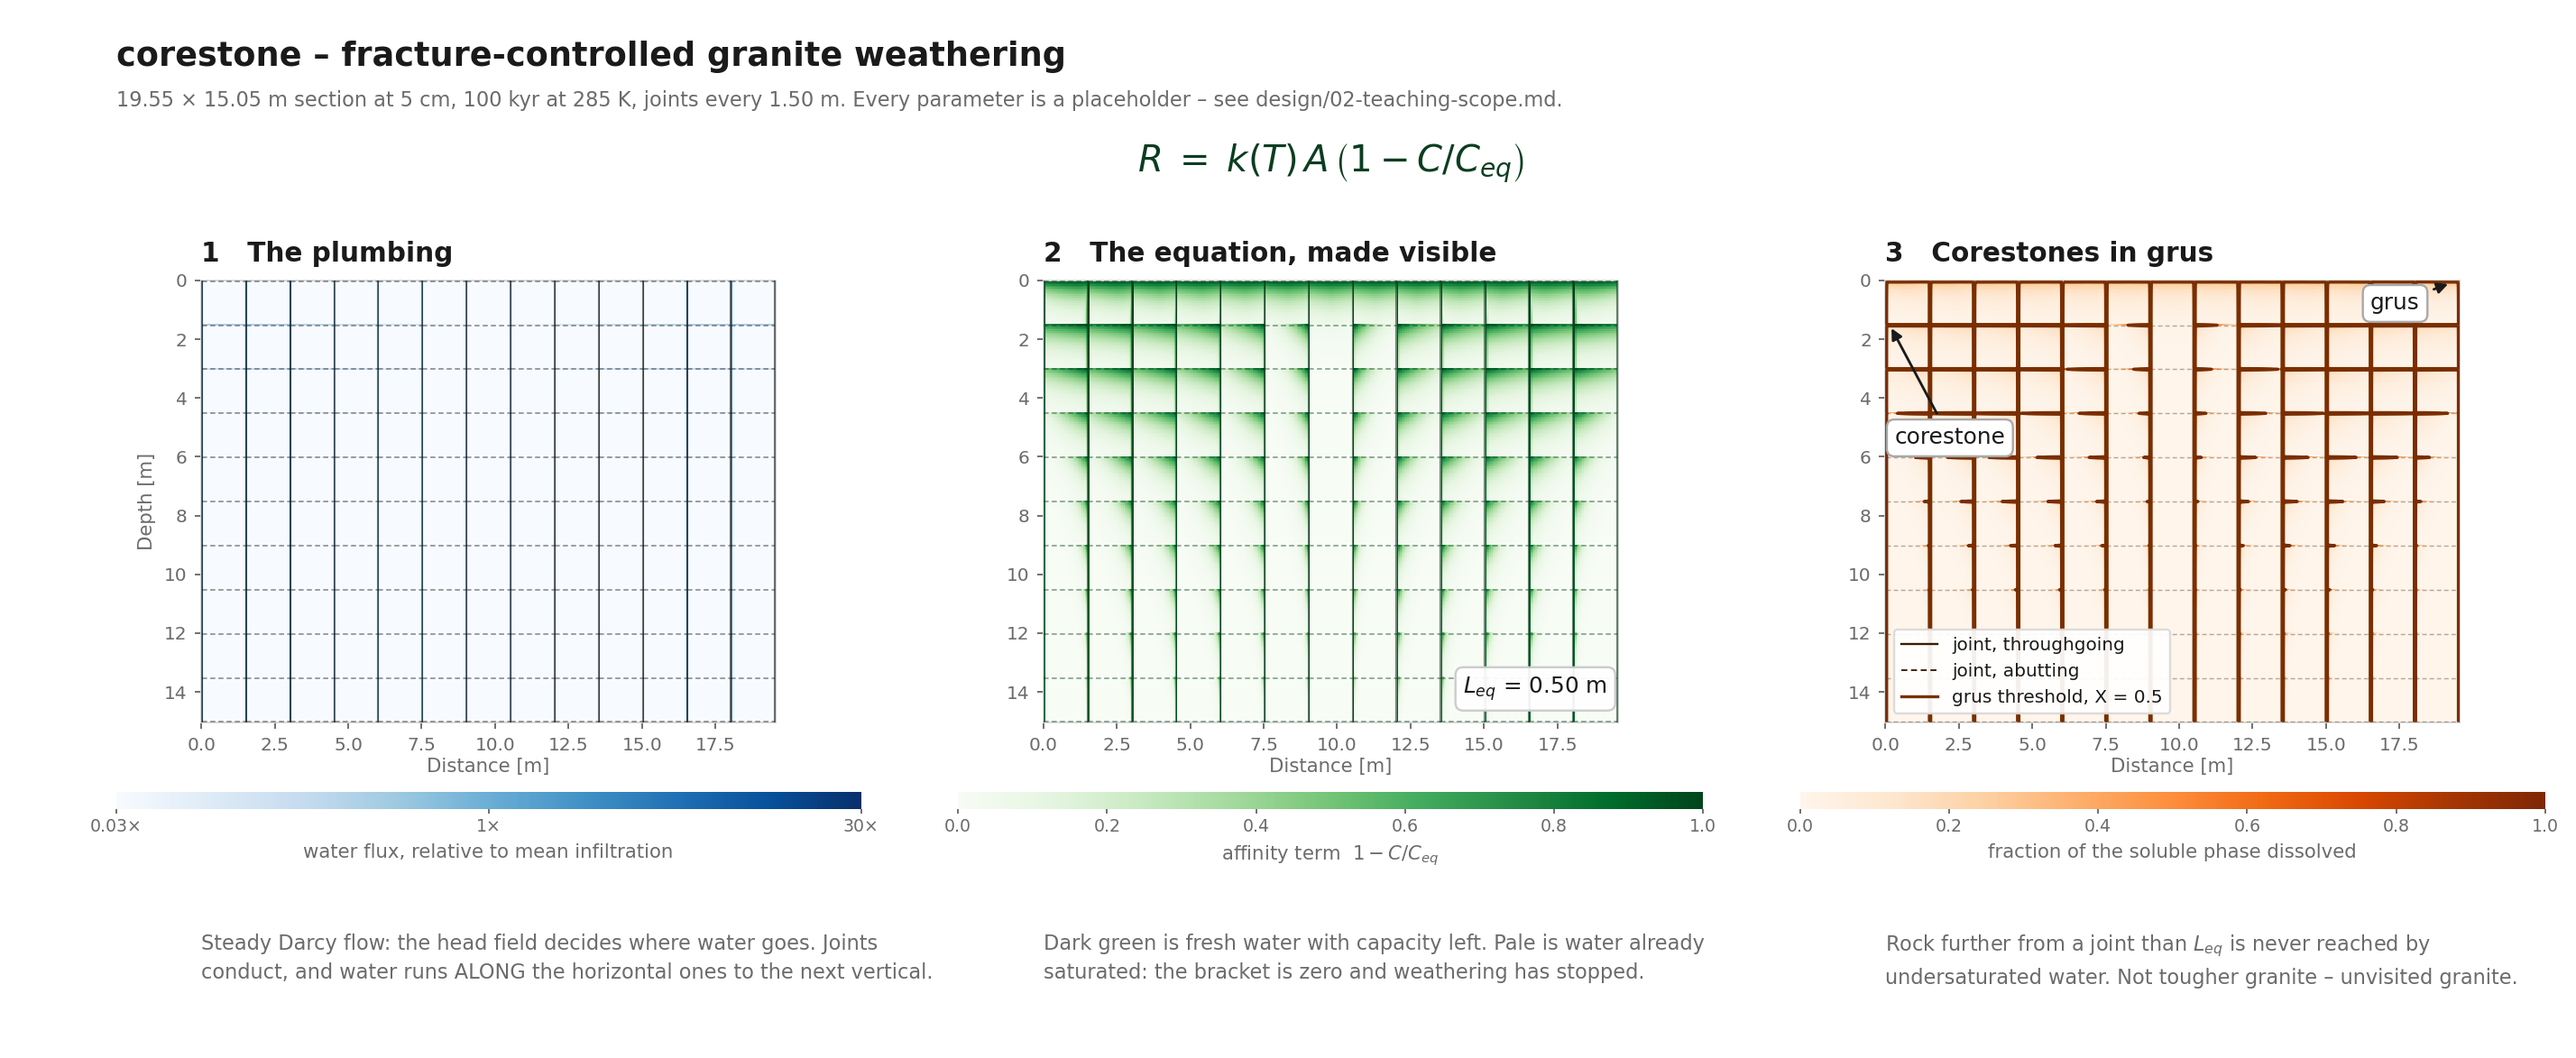
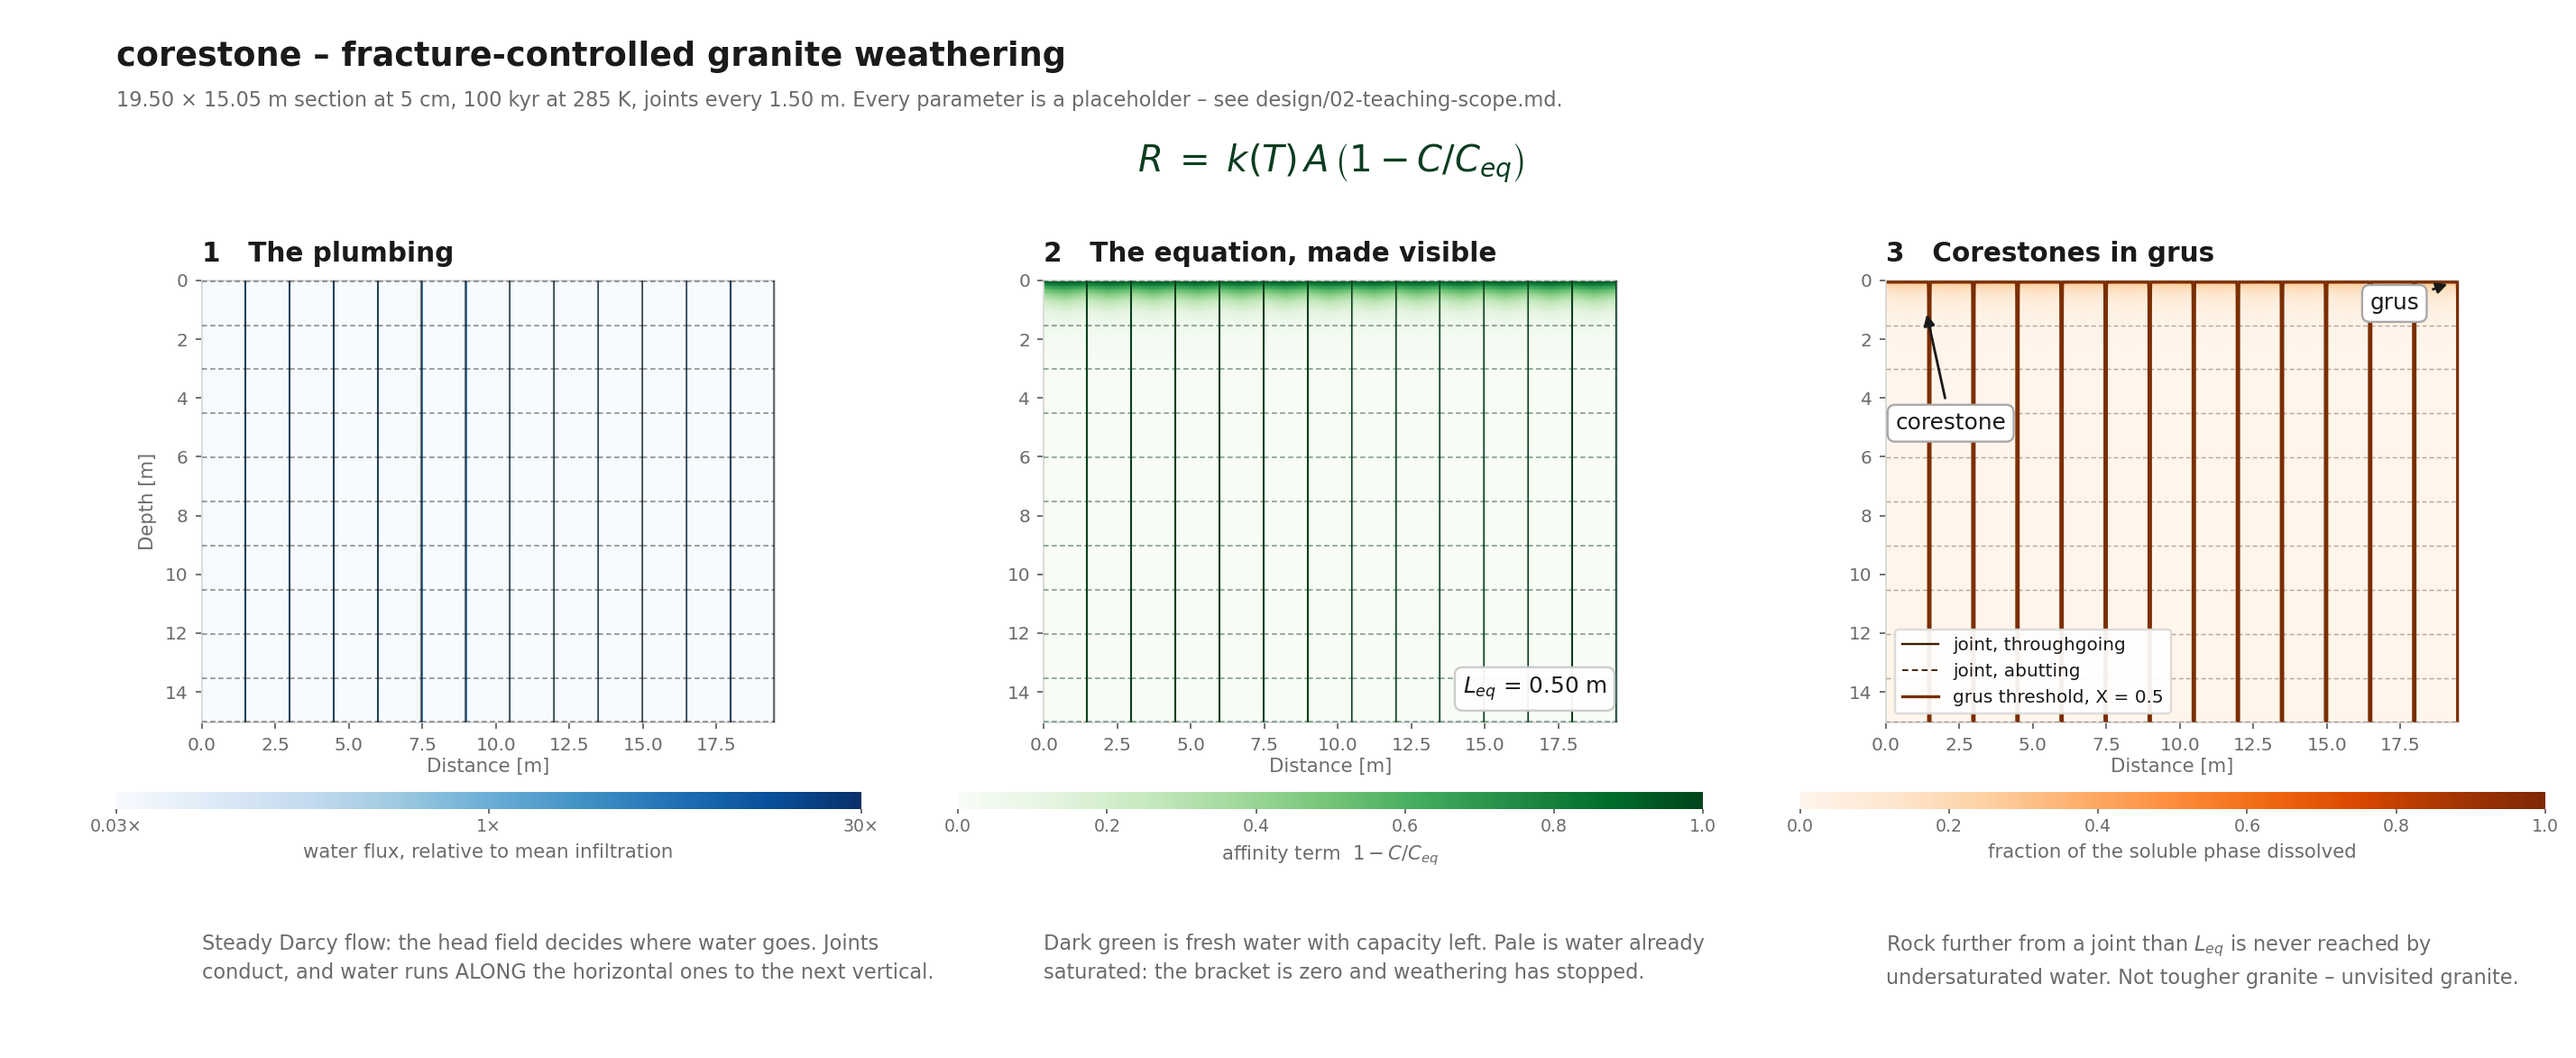
Design 05, and make the examples and probes periodic
Records the two false starts as well as the answer: quarter-integrating the
flux gave a 30 % edge excess that was a joint-binning artifact, and sampling
joint columns from float coordinates gave a factor of a thousand that was
rounding drift. The flow field was uniform to 1 % all along; what varied was
the weathering.

diff --git a/examples/figure_three_panel.py b/examples/figure_three_panel.py
@@ -22,18 +22,18 @@ from matplotlib.lines import Line2D
 from scipy.ndimage import uniform_filter
 
 from corestone import (FractureNetwork, Weathering, orthogonal_grid,
-                       uniform_grid_shape)
+                       periodic_grid_shape)
 
 # ---- what to draw -------------------------------------------------------------
 DX = 0.05                                  # cell size [m]
 SPACING = 1.5                              # joint spacing [m]
 # Cell counts that let the joint set tile the section exactly, with a joint on
 # each wall and no odd block left over at the edges.
-NZ, NX = uniform_grid_shape(20.0, 15.0, DX, SPACING)
+NZ, NX = periodic_grid_shape(20.0, 15.0, DX, SPACING)
 KYR = 100.0                                # elapsed time
 OUT = "examples/figure_three_panel.png"
 
-net = FractureNetwork(NZ, NX, DX).seed(sets=orthogonal_grid(SPACING),
+net = FractureNetwork(NZ, NX, DX, periodic_x=True).seed(sets=orthogonal_grid(SPACING),
                                        rng=np.random.default_rng(12345))
 model = Weathering(net).run(years=KYR * 1e3)
 

diff --git a/prototypes/probe_b_weathering.py b/prototypes/probe_b_weathering.py
@@ -29,21 +29,21 @@ Run:  PYTHONPATH=src python3 prototypes/probe_b_weathering.py
 import numpy as np
 
 from corestone import (FractureNetwork, Weathering, orthogonal_grid,
-                       uniform_grid_shape)
+                       periodic_grid_shape)
 
 DX, SPACING = 0.05, 1.5
-NZ, NX = uniform_grid_shape(20.0, 15.0, DX, SPACING)
+NZ, NX = periodic_grid_shape(20.0, 15.0, DX, SPACING)
 
 
 def model(T=285.0):
-    net = FractureNetwork(NZ, NX, DX).seed(sets=orthogonal_grid(SPACING),
+    net = FractureNetwork(NZ, NX, DX, periodic_x=True).seed(sets=orthogonal_grid(SPACING),
                                            rng=np.random.default_rng(12345))
     m = Weathering(net)
     m.set_temperature(T)
     return m
 
 
-net = FractureNetwork(NZ, NX, DX).seed(sets=orthogonal_grid(SPACING),
+net = FractureNetwork(NZ, NX, DX, periodic_x=True).seed(sets=orthogonal_grid(SPACING),
                                        rng=np.random.default_rng(12345))
 dist = net.distance_to_fracture()
 print("domain %d x %d at dx = %s m (%.0f x %.0f m), %d traces"

diff --git a/examples/seed_a_joint_network.py b/examples/seed_a_joint_network.py
@@ -12,13 +12,13 @@ distance, and plots both.
 import numpy as np
 from matplotlib import pyplot as plt
 
-from corestone import FractureNetwork, orthogonal_grid, uniform_grid_shape
+from corestone import FractureNetwork, orthogonal_grid, periodic_grid_shape
 
 DX, SPACING = 0.05, 1.5
-NZ, NX = uniform_grid_shape(20.0, 15.0, DX, SPACING)
+NZ, NX = periodic_grid_shape(20.0, 15.0, DX, SPACING)
 L_EQ = 0.50                                    # equilibration length [m]
 
-net = FractureNetwork(NZ, NX, DX).seed(
+net = FractureNetwork(NZ, NX, DX, periodic_x=True).seed(
     sets=orthogonal_grid(spacing=1.5),
     rng=np.random.default_rng(12345))
 

diff --git a/design/05-periodic-walls.md b/design/05-periodic-walls.md
@@ -1,0 +1,94 @@
+# 05 -- The side walls were not neutral
+
+## What was seen
+
+Andy, looking at the figure: *"There is still less flow in the center than on
+the edges."*
+
+## What was measured
+
+Two false starts worth recording, because both looked like answers.
+
+**First**, quarter-integrating the downward flux gave edges 5.26e-8 against
+centre 4.03e-8 -- a 30 % excess, apparently confirming it. It was a binning
+artifact: the outer quarters happened to contain four joint columns and the
+inner ones three.
+
+**Second**, sampling the flux at joint columns derived from the trace
+coordinates gave a factor of a thousand between the left and right halves.
+That was floating-point drift in `round(x / dx)` landing off the joint, not
+in the flux.
+
+Taking the joint columns from the link mask instead:
+
+```
+flux down each joint / interior mean
+0.987 0.990 0.994 0.999 1.003 1.006 1.007 1.007 1.006 1.003 0.999 0.994 0.990 0.987
+```
+
+**The flow field is uniform to about 1 %.** The observation was right but the
+quantity was wrong: what varies is the weathering.
+
+```
+dissolved fraction per block, relative to the mean
+1.03  1.20  1.23  1.17  1.00  0.70  0.34  0.70  1.00  1.17  1.23  1.20  1.03
+                              ^ centre
+```
+
+A factor of 3.6 between the centre block and the blocks two in from the walls,
+and perfectly symmetric.
+
+## The cause
+
+```
+both sets,  19.55 m : 1.03 1.20 1.23 1.17 1.00 0.70 0.34 0.70 1.00 1.17 1.23 1.20 1.03
+VERTICAL ONLY       : 1.30 1.08 0.97 0.92 0.90 0.89 0.89 0.89 0.90 0.92 0.97 1.08 1.30
+both sets,  ~31 m   : 1.01 1.21 1.28 1.29 1.25 1.17 1.04 0.88 0.70 0.51 0.31 0.51 ...
+```
+
+The dip needs the subhorizontal joints, and it **scales with the width of the
+section** rather than staying near the edges. So it is not a boundary layer: a
+no-flow wall forces the lateral flow to vanish at both ends, and in a section
+whose horizontal joints carry lateral flow that manufactures a domain-scale
+circulation with a drainage divide down the middle. With vertical joints alone
+there is only a mild two-block edge effect.
+
+**A no-flow wall is a physical statement, not a neutral one.** It says the
+section is bounded by impermeable rock. A section cut out of a jointed mass is
+not.
+
+## The fix
+
+Periodic in x: the section wraps onto itself, so there are no walls.
+
+- The Darcy assembly gains a wrap link joining column `nx - 1` to column `0`,
+  conductive wherever a joint reaches both edges.
+- The joint pattern must tile the period: `periodic_grid_shape()` returns
+  `n * spacing / dx` columns, with no joint repeated at the seam, and **raises**
+  if the spacing is not a whole number of cells. 1.5 m at 20 cm is 7.5 cells;
+  silently rounding it would tile at 1.6 m while the caller believed 1.5 m.
+- The abutting traces cross the seam, which appears as two pieces because the
+  section is drawn cut open.
+- The solute row balance becomes **cyclic** tridiagonal -- cell 0 draws on cell
+  `nx - 1` and vice versa, putting entries in the far corners. Sherman-Morrison
+  folds them back into two banded solves.
+
+## Result
+
+```
+             block-to-block spread   mass-balance error
+no-flow                     89.3 %             1.1e-09
+periodic                     0.0 %             1.1e-09
+```
+
+Every block now weathers identically. Total weathering falls from 4.90 % grus
+to 3.65 %, because the no-flow case was concentrating weathering into the
+near-wall blocks rather than distributing it.
+
+## Open
+
+- Vertical remains non-periodic, correctly: the surface and the drainage base
+  are real boundaries, not artifacts.
+- The no-flow option is kept rather than deleted. It is the right model for a
+  section genuinely bounded by impermeable rock, and it is a good illustration
+  of a boundary condition quietly shaping an interior result.
